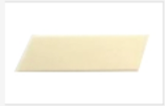
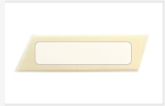
無地プレートに網掛け入れた

Changed region(s): [[0.2121, 0.3679, 0.8182, 0.6226]]

diff --git a/public_html/html/user_data/assets/css/customize.css b/public_html/html/user_data/assets/css/customize.css
@@ -4622,6 +4622,30 @@ $common
 }
 /*.SP*/
 
+/*PC and SP*/
+.amikake {
+  position: relative;
+}
+
+.amikake p {
+  position: absolute;
+  width: 150px;
+  top: 50%;
+  left: 50%;
+  -ms-transform: translate(-50%,-50%);
+  -webkit-transform: translate(-50%,-50%);
+  transform: translate(-50%,-50%);
+  margin:0;
+  padding:0;
+  text-align: center;
+  color: #000;
+  
+}
+
+.amikake img {
+  width: 100%;
+}
+
 
 
 /* Slider */
@@ -4743,3 +4767,5 @@ $common
 .slick-arrow.slick-hidden {
     display: none;
 }
+
+/*.PC and SP*/
